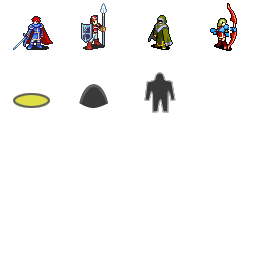
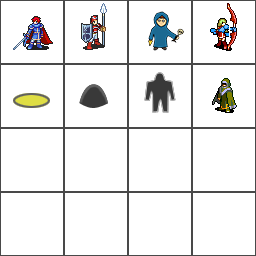
Added shaman image

Changed region(s): [[0.0, 0.0, 1.0, 1.0]]

diff --git a/Classes/StateManager.cpp b/Classes/StateManager.cpp
@@ -24,7 +24,7 @@ std::map<std::string, std::string> StateManager::_inMemoryFileStore = StateManag
 std::map<std::string, std::string> StateManager::initStaticMap() {
     std::map<std::string, std::string> states;
     
-	std::string adventureState = "{'context':{'partyId1':0,'partyId2':0},'map':{'height':8,'hexes':[{'v':0,'x':0,'y':0},{'v':0,'x':1,'y':0},{'v':0,'x':2,'y':0},{'v':3,'x':3,'y':0},{'v':3,'x':4,'y':0},{'v':3,'x':5,'y':0},{'v':0,'x':6,'y':0},{'v':0,'x':7,'y':0},{'v':1,'x':0,'y':1},{'v':1,'x':1,'y':1},{'v':1,'x':2,'y':1},{'v':1,'x':3,'y':1},{'v':3,'x':4,'y':1},{'v':1,'x':5,'y':1},{'v':1,'x':6,'y':1},{'v':1,'x':7,'y':1},{'v':2,'x':0,'y':2},{'v':2,'x':1,'y':2},{'v':1,'x':2,'y':2},{'v':1,'x':3,'y':2},{'v':2,'x':4,'y':2},{'v':2,'x':5,'y':2},{'v':0,'x':6,'y':2},{'v':2,'x':7,'y':2},{'v':1,'x':0,'y':3},{'v':2,'x':1,'y':3},{'v':1,'x':2,'y':3},{'v':1,'x':3,'y':3},{'v':1,'x':4,'y':3},{'v':2,'x':5,'y':3},{'v':1,'x':6,'y':3},{'v':2,'x':7,'y':3},{'v':0,'x':0,'y':4},{'v':1,'x':1,'y':4},{'v':0,'x':2,'y':4},{'v':2,'x':3,'y':4},{'v':0,'x':4,'y':4},{'v':1,'x':5,'y':4},{'v':0,'x':6,'y':4},{'v':2,'x':7,'y':4},{'v':1,'x':0,'y':5},{'v':2,'x':1,'y':5},{'v':1,'x':2,'y':5},{'v':2,'x':3,'y':5},{'v':1,'x':4,'y':5},{'v':0,'x':5,'y':5},{'v':1,'x':6,'y':5},{'v':2,'x':7,'y':5},{'v':0,'x':0,'y':6},{'v':1,'x':1,'y':6},{'v':0,'x':2,'y':6},{'v':2,'x':3,'y':6},{'v':0,'x':4,'y':6},{'v':1,'x':5,'y':6},{'v':0,'x':6,'y':6},{'v':2,'x':7,'y':6},{'v':1,'x':0,'y':7},{'v':2,'x':1,'y':7},{'v':1,'x':2,'y':7},{'v':2,'x':3,'y':7},{'v':1,'x':4,'y':7},{'v':2,'x':5,'y':7},{'v':1,'x':6,'y':7},{'v':2,'x':7,'y':7}],'scale':1.50,'width':8},'mapObjects':[{'actions':[0,1,7,8,9,10],'category':1,'id':1,'items':[{'count':1,'type':1},{'count':10,'type':5}],'layer':2,'members':[{'ap':6,'equip':null,'hp':10,'id':1,'owner':1,'type':'hero','x':1,'y':1},{'ap':0,'equip':null,'hp':3,'id':1,'owner':1,'type':'archer','x':1,'y':0}],'owner':1,'visualType':1,'x':1,'y':3},{'actions':[0,1,7,8,9,10],'category':1,'id':2,'items':[{'count':1,'type':1},{'count':10,'type':5}],'layer':2,'members':[{'ap':0,'equip':null,'hp':5,'id':0,'owner':2,'type':'soldier','x':2,'y':2},{'ap':5,'equip':null,'hp':3,'id':1,'owner':2,'type':'archer','x':2,'y':3}],'owner':2,'visualType':6,'x':3,'y':2},{'actions':[0,1,7,8,9,10],'category':1,'id':3,'items':[{'count':1,'type':1},{'count':10,'type':5}],'layer':2,'members':[{'ap':3,'equip':null,'hp':5,'id':0,'owner':2,'type':'soldier','x':2,'y':2},{'ap':0,'equip':null,'hp':3,'id':1,'owner':2,'type':'archer','x':2,'y':3}],'owner':2,'visualType':6,'x':1,'y':6},{'actions':[0,1,7,8,9,10],'category':1,'id':4,'items':[{'count':1,'type':1},{'count':10,'type':5}],'layer':2,'members':[{'ap':1,'equip':null,'hp':5,'id':0,'owner':2,'type':'soldier','x':2,'y':2},{'ap':1,'equip':null,'hp':3,'id':8,'owner':2,'type':'archer','x':2,'y':3}],'owner':2,'visualType':6,'x':7,'y':1},{'actions':null,'category':2,'id':5,'items':[{'count':1,'type':1},{'count':10,'type':5}],'layer':1,'members':null,'owner':1,'visualType':4,'x':0,'y':0},{'actions':null,'category':3,'id':6,'items':[{'count':1,'type':1},{'count':10,'type':5}],'layer':1,'members':null,'owner':1,'visualType':5,'x':0,'y':3}],'units':null}";
+	std::string adventureState = "{'context':{'partyId1':0,'partyId2':0},'map':{'height':8,'hexes':[{'v':0,'x':0,'y':0},{'v':0,'x':1,'y':0},{'v':0,'x':2,'y':0},{'v':3,'x':3,'y':0},{'v':3,'x':4,'y':0},{'v':3,'x':5,'y':0},{'v':0,'x':6,'y':0},{'v':0,'x':7,'y':0},{'v':1,'x':0,'y':1},{'v':1,'x':1,'y':1},{'v':1,'x':2,'y':1},{'v':1,'x':3,'y':1},{'v':3,'x':4,'y':1},{'v':1,'x':5,'y':1},{'v':1,'x':6,'y':1},{'v':1,'x':7,'y':1},{'v':2,'x':0,'y':2},{'v':2,'x':1,'y':2},{'v':1,'x':2,'y':2},{'v':1,'x':3,'y':2},{'v':2,'x':4,'y':2},{'v':2,'x':5,'y':2},{'v':0,'x':6,'y':2},{'v':2,'x':7,'y':2},{'v':1,'x':0,'y':3},{'v':2,'x':1,'y':3},{'v':1,'x':2,'y':3},{'v':1,'x':3,'y':3},{'v':1,'x':4,'y':3},{'v':2,'x':5,'y':3},{'v':1,'x':6,'y':3},{'v':2,'x':7,'y':3},{'v':0,'x':0,'y':4},{'v':1,'x':1,'y':4},{'v':0,'x':2,'y':4},{'v':2,'x':3,'y':4},{'v':0,'x':4,'y':4},{'v':1,'x':5,'y':4},{'v':0,'x':6,'y':4},{'v':2,'x':7,'y':4},{'v':1,'x':0,'y':5},{'v':2,'x':1,'y':5},{'v':1,'x':2,'y':5},{'v':2,'x':3,'y':5},{'v':1,'x':4,'y':5},{'v':0,'x':5,'y':5},{'v':1,'x':6,'y':5},{'v':2,'x':7,'y':5},{'v':0,'x':0,'y':6},{'v':1,'x':1,'y':6},{'v':0,'x':2,'y':6},{'v':2,'x':3,'y':6},{'v':0,'x':4,'y':6},{'v':1,'x':5,'y':6},{'v':0,'x':6,'y':6},{'v':2,'x':7,'y':6},{'v':1,'x':0,'y':7},{'v':2,'x':1,'y':7},{'v':1,'x':2,'y':7},{'v':2,'x':3,'y':7},{'v':1,'x':4,'y':7},{'v':2,'x':5,'y':7},{'v':1,'x':6,'y':7},{'v':2,'x':7,'y':7}],'scale':1.50,'width':8},'mapObjects':[{'actions':[0,1,7,8,9,10],'category':1,'id':1,'items':[{'count':1,'type':1},{'count':10,'type':5}],'layer':2,'members':[{'ap':6,'equip':null,'hp':10,'id':1,'owner':1,'type':'hero','x':1,'y':1},{'ap':0,'equip':null,'hp':3,'id':1,'owner':1,'type':'channeler','x':1,'y':0}],'owner':1,'visualType':1,'x':1,'y':3},{'actions':[0,1,7,8,9,10],'category':1,'id':2,'items':[{'count':1,'type':1},{'count':10,'type':5}],'layer':2,'members':[{'ap':0,'equip':null,'hp':5,'id':0,'owner':2,'type':'soldier','x':2,'y':2},{'ap':5,'equip':null,'hp':3,'id':1,'owner':2,'type':'archer','x':2,'y':3}],'owner':2,'visualType':6,'x':3,'y':2},{'actions':[0,1,7,8,9,10],'category':1,'id':3,'items':[{'count':1,'type':1},{'count':10,'type':5}],'layer':2,'members':[{'ap':3,'equip':null,'hp':5,'id':0,'owner':2,'type':'soldier','x':2,'y':2},{'ap':0,'equip':null,'hp':3,'id':1,'owner':2,'type':'archer','x':2,'y':3}],'owner':2,'visualType':6,'x':1,'y':6},{'actions':[0,1,7,8,9,10],'category':1,'id':4,'items':[{'count':1,'type':1},{'count':10,'type':5}],'layer':2,'members':[{'ap':1,'equip':null,'hp':5,'id':0,'owner':2,'type':'soldier','x':2,'y':2},{'ap':1,'equip':null,'hp':3,'id':8,'owner':2,'type':'archer','x':2,'y':3}],'owner':2,'visualType':6,'x':7,'y':1},{'actions':null,'category':2,'id':5,'items':[{'count':1,'type':1},{'count':10,'type':5}],'layer':1,'members':null,'owner':1,'visualType':4,'x':0,'y':0},{'actions':null,'category':3,'id':6,'items':[{'count':1,'type':1},{'count':10,'type':5}],'layer':1,'members':null,'owner':1,'visualType':5,'x':0,'y':3}],'units':null}";
     
     std::string battleState = "{'map':{'height':4,'hexes':[{'v':4,'x':0,'y':0},{'v':5,'x':1,'y':0},{'v':5,'x':2,'y':0},{'v':5,'x':3,'y':0},{'v':5,'x':0,'y':1},{'v':5,'x':1,'y':1},{'v':5,'x':2,'y':1},{'v':5,'x':3,'y':1},{'v':5,'x':0,'y':2},{'v':5,'x':1,'y':2},{'v':5,'x':2,'y':2},{'v':5,'x':3,'y':2},{'v':5,'x':0,'y':3},{'v':5,'x':1,'y':3},{'v':5,'x':2,'y':3},{'v':4,'x':3,'y':3}],'scale':1.0,'width':4},'units':[{'ap':1,'equip':null,'hp':3,'id':8,'owner':2,'type':'archer','x':1,'y':1},{'ap':1,'equip':null,'hp':3,'id':8,'owner':2,'type':'archer','x':2,'y':1},{'ap':1,'equip':null,'hp':3,'id':8,'owner':2,'type':'archer','x':2,'y':2}]}";
 	
